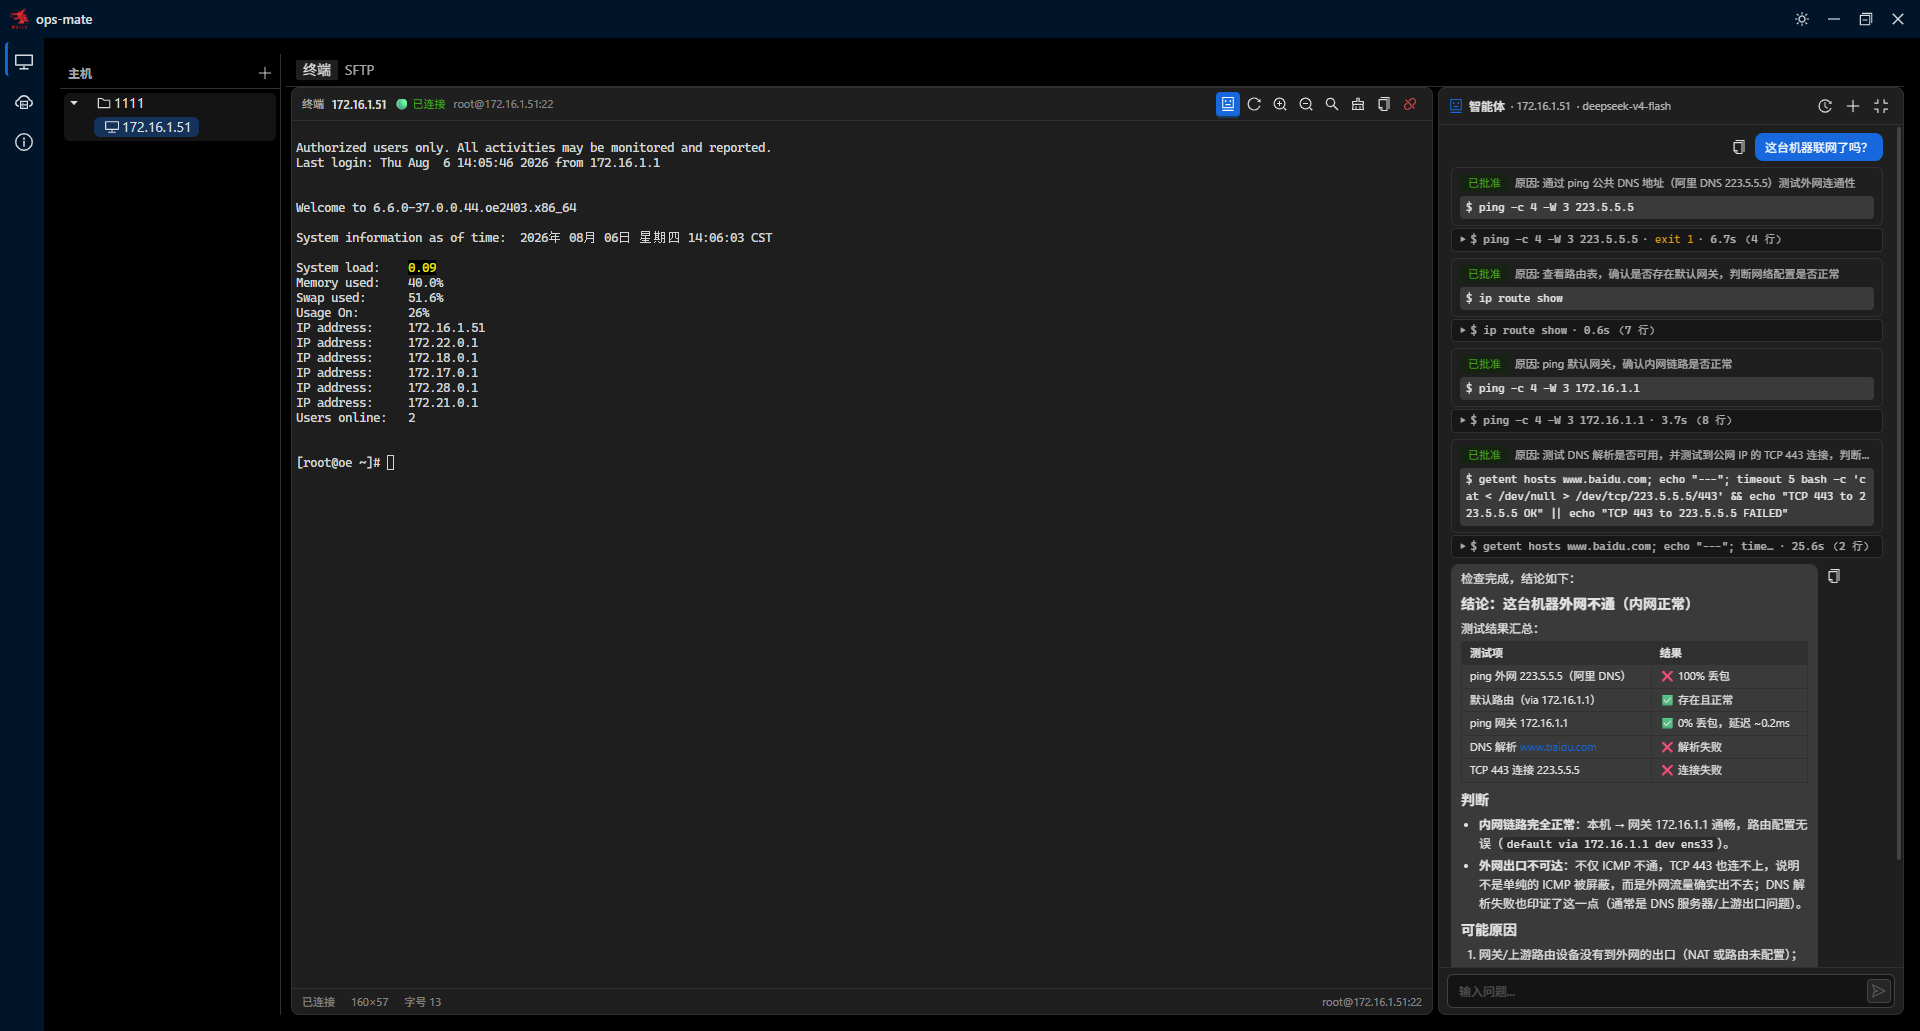
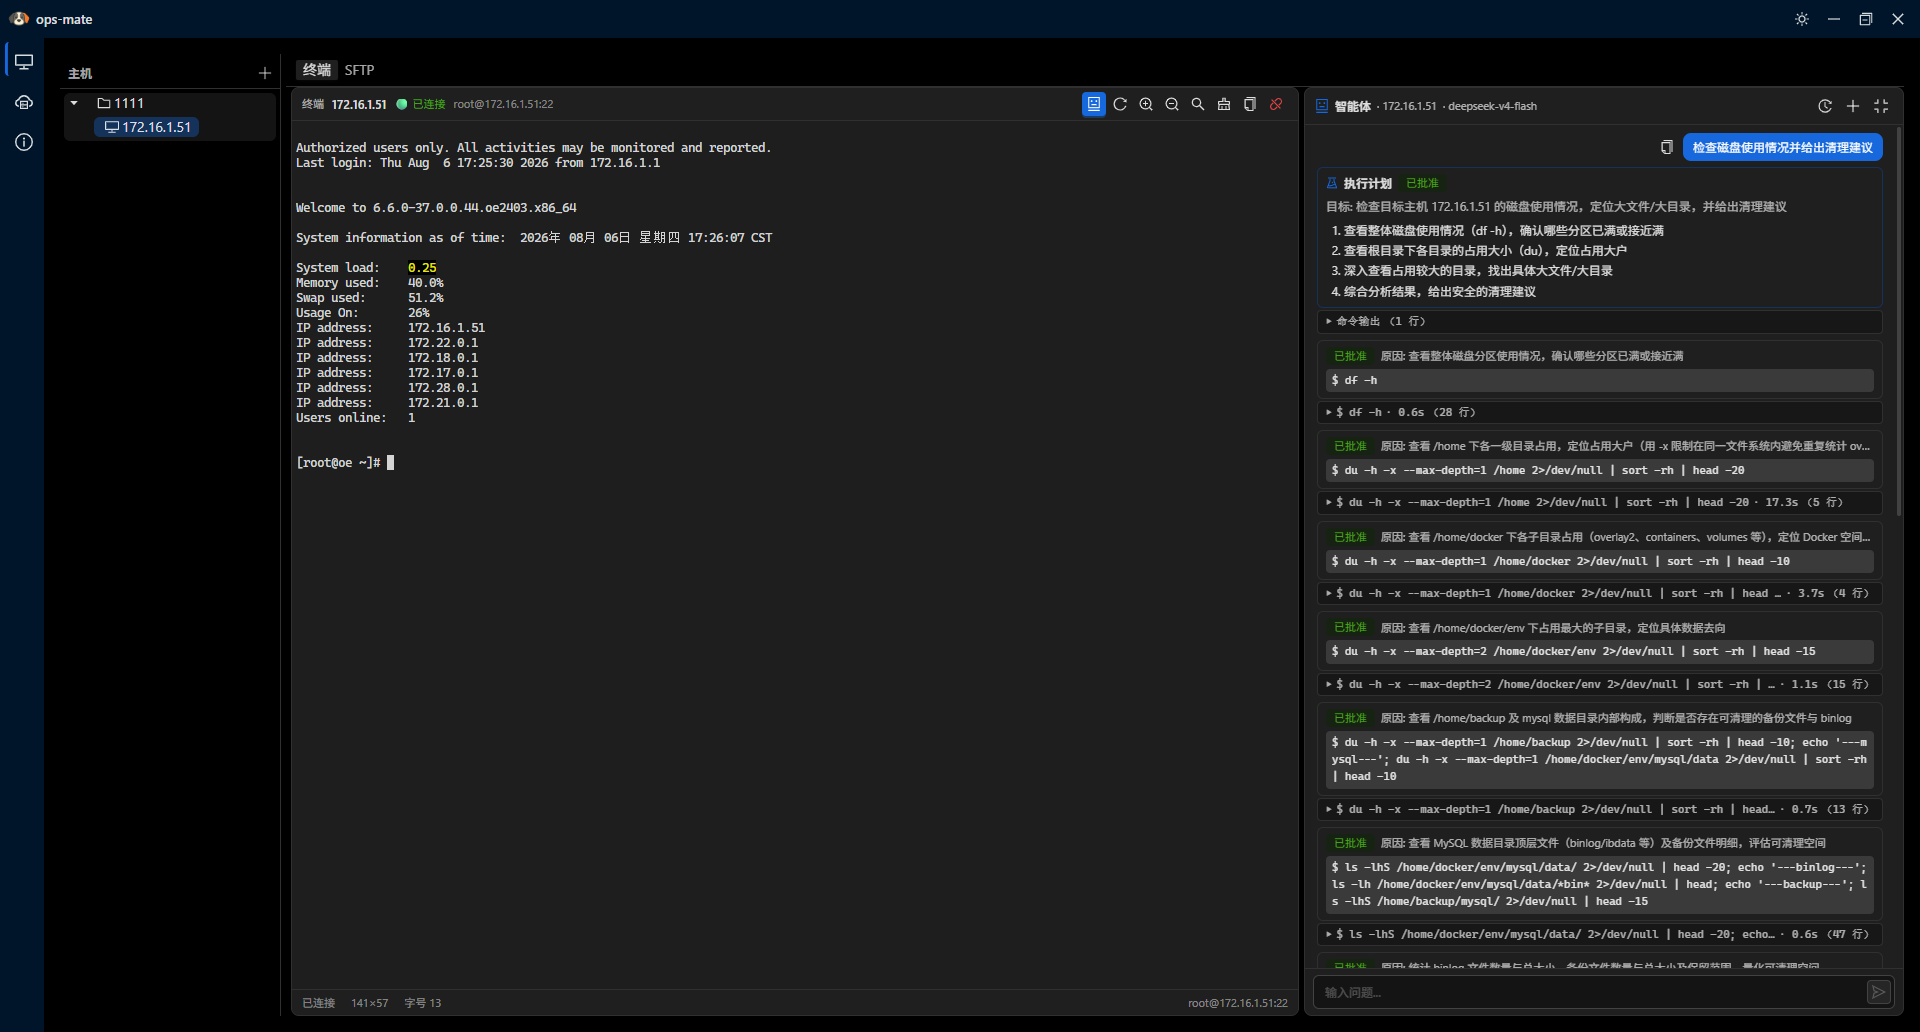
chore: 开源准备（MIT 协议、README、隐私清理）
- 新增 LICENSE（MIT）与 README_ch.md，README 补全功能/架构/截图
- About 页更新为静态功能特性列表
- wails.json 作者信息匿名化并配置 productVersion 1.0.1
- .gitignore 忽略 .claude/，清理 go.mod 注释的本地 replace 路径

diff --git a/frontend/src/pages/About/index.tsx b/frontend/src/pages/About/index.tsx
@@ -1,22 +1,44 @@
-import { Typography, Card, Space } from 'antd';
+import { Typography, Card, Divider, Space } from 'antd';
 import { GithubOutlined } from '@ant-design/icons';
 
 const { Title, Paragraph, Text, Link } = Typography;
+
+/** 功能特性列表 */
+const FEATURES: Array<{ icon: string; title: string; desc: string }> = [
+  { icon: '🖥', title: '主机管理', desc: '文件夹树状组织主机、连接测试、命令执行' },
+  { icon: '💻', title: 'SSH 终端', desc: '交互式终端，动态缩放、搜索、命令历史' },
+  { icon: '📁', title: 'SFTP 传输', desc: '远程文件浏览与上传下载，并发队列 + 进度控制' },
+  { icon: '🤖', title: 'AI 运维智能体', desc: '命令审批 / 计划模式，每一步都经你确认' },
+];
 
 export default function About(): React.JSX.Element {
   return (
     <div style={{ maxWidth: 560, margin: '0 auto' }}>
       <Title level={4}>关于 ops-mate</Title>
       <Card size="small">
-        <Space direction="vertical" size={4}>
+        <Space direction="vertical" size={4} style={{ width: '100%' }}>
           <Paragraph style={{ margin: 0 }}>
-            <Text strong>ops-mate</Text> — 基于 Wails + React 的 AI 运维智能体
+            <Text strong>ops-mate</Text>
           </Paragraph>
           <Paragraph type="secondary" style={{ fontSize: 12, margin: 0 }}>
-            通过 AI 对话远程管理 Linux 主机，支持命令审批、历史记忆、多主机管理。
+            基于 Wails + React 的 AI 运维智能体，通过 AI 对话远程管理 Linux 主机。
           </Paragraph>
+
+          <Divider style={{ margin: '8px 0' }} />
+
+          {FEATURES.map((f) => (
+            <Paragraph key={f.title} style={{ margin: 0, fontSize: 12 }}>
+              <Text strong>
+                {f.icon} {f.title}
+              </Text>
+              <Text type="secondary"> — {f.desc}</Text>
+            </Paragraph>
+          ))}
+
+          <Divider style={{ margin: '8px 0' }} />
+
           <Paragraph type="secondary" style={{ fontSize: 12, margin: 0 }}>
-            技术栈: Go + Eino | React + Ant Design | SQLite + GORM
+            技术栈: Go + Eino | React + Ant Design + xterm.js | SQLite + GORM
           </Paragraph>
           <Link href="https://github.com" target="_blank">
             <GithubOutlined /> GitHub

diff --git a/README.md b/README.md
@@ -1,19 +1,105 @@
-# README
+# ops-mate
 
-## About
+**ops-mate** is a desktop application for SSH server operations and automated ops management, built with [Wails v2](https://wails.io/) (Go backend + React/TypeScript frontend). It combines a classic SSH/SFTP client with an **AI-powered ops agent** that can plan and execute troubleshooting or remediation tasks on your servers — with human approval at every step.
 
-This is the official Wails React-TS template.
+![ops-mate 主界面](images/home.png)
 
-You can configure the project by editing `wails.json`. More information about the project settings can be found
-here: https://wails.io/docs/reference/project-config
+## Features
 
-## Live Development
+### 🖥 Host Management
+- Organize hosts into a folder **tree** (create / rename / move / delete nodes)
+- Manage SSH connection info (host, port, user, auth)
+- **Test connection** before saving; run ad-hoc commands
+- Passwords/secrets are **encrypted at rest**
 
-To run in live development mode, run `wails dev` in the project directory. This will run a Vite development
-server that will provide very fast hot reload of your frontend changes. If you want to develop in a browser
-and have access to your Go methods, there is also a dev server that runs on http://localhost:34115. Connect
-to this in your browser, and you can call your Go code from devtools.
+### 💻 SSH Terminal
+- Full interactive terminal (xterm.js, WebGL/canvas rendering)
+- Dynamic **resize**, search, copy/paste, command history
+- Multiple concurrent host sessions
+
+### 📁 SFTP File Transfer
+- Browse remote directories, create / delete / rename
+- **Upload / download** with a concurrent queue
+- Per-task **progress** with pause / resume / cancel
+
+### 🤖 AI Ops Agent
+- Chat with an LLM agent that has a direct view of your selected host
+- **`execute_command` tool** — the agent proposes concrete shell commands; **every command must be approved by you before it runs**
+- **Plan mode (`create_plan`)** — for complex multi-step tasks the agent first submits an execution plan (goal + step list) for your approval, then executes step by step
+- **Guardrails** — dangerous operations (delete, restart, shutdown, formatting) are flagged and always require explicit approval
+- Conversation history per host, with rename / delete
+
+### ⚙ Model Configuration
+- Bring your own LLM: provider, model, base URL, API key (**encrypted at rest**)
+- Supports OpenAI-compatible protocols (OpenAI / DeepSeek / Qwen(通义) / Zhipu(智谱) / Moonshot / Volcengine, etc.), **Anthropic Claude**, and local **Ollama**
+
+## Tech Stack
+
+| Layer | Technology |
+|-------|-----------|
+| Shell | Wails v2 (Go + WebView2) |
+| Backend | Go, [eino](https://github.com/cloudwego/eino) agent framework, eino-ext model adapters |
+| Storage | SQLite via `modernc.org/sqlite` (pure Go, no CGO) + GORM + golang-migrate |
+| Frontend | React 19, TypeScript, Vite, Ant Design 6, react-router-dom 7, xterm.js |
+
+## Architecture
+
+```
+┌─────────────────────────── Frontend (React) ───────────────────────────┐
+│  HostsPage ──► HostTree / Terminal / SFTP Panel / AIPanel / PlanCard   │
+└───────────────────────────────┬────────────────────────────────────────┘
+                                │  Wails bindings (window.go)
+┌───────────────────────────────▼────────────────────────────────────────┐
+│                         Go Backend (Wails)                              │
+│  handlers: Hosts · Terminal · Sftp · Sessions · AIConfig                │
+│  internal/einoagent: model(provider) · tools · session · guardrail     │
+│  internal/store:     hosts · conversations · config · memory (SQLite)   │
+└─────────────────────────────────────────────────────────────────────────┘
+```
+
+- **Bindings**: exported methods on Go handler structs are auto-bound and callable from the frontend via `@wailsjs/go/**` (auto-generated, never edit).
+- **Routing**: `react-router-dom` with `HashRouter` (required for embedded Wails assets). Single source of truth in `frontend/src/components/AppLayout/menuConfig.tsx`.
+- **Frameless window**: custom title-bar drag region built in the frontend.
+- **AI events**: the agent streams events (`ai:text`, `ai:command`, `ai:plan`, `run:*`) to the frontend over Wails events to drive the approval UI.
+
+## Development
+
+Prerequisites: [Go](https://go.dev/dl/), [Node.js](https://nodejs.org/), [pnpm](https://pnpm.io/), and the [Wails CLI](https://wails.io/docs/gettingstarted/installation).
+
+```bash
+# Live development (hot reload for Go + frontend)
+wails dev
+
+# Frontend-only (standalone Vite, no Go bridge)
+cd frontend && pnpm dev
+```
 
 ## Building
 
-To build a redistributable, production mode package, use `wails build`.
+```bash
+# Production build
+wails build
+
+# Build for a specific platform
+wails build -platform windows/amd64
+wails build -platform darwin/universal
+```
+
+## Project Layout
+
+```
+├── main.go                  # Wails app entry, binding
+├── internal/
+│   ├── handler/             # Wails-bound API handlers (hosts, terminal, sftp, sessions, ai config)
+│   ├── einoagent/           # AI agent (model/provider, tools, session, guardrail, history)
+│   ├── sftp/                # SFTP transfer engine (concurrent queue)
+│   └── store/               # SQLite persistence (hosts, conversations, config, memory)
+├── frontend/
+│   ├── src/                 # React app (pages, components, hooks)
+│   └── wailsjs/             # auto-generated Wails bindings (do not edit)
+└── wails.json               # Wails project config
+```
+
+## License
+
+[MIT](LICENSE) © ops-mate contributors

diff --git a/README_ch.md b/README_ch.md
@@ -1,0 +1,105 @@
+# ops-mate
+
+**ops-mate** 是一款基于 [Wails v2](https://wails.io/)（Go 后端 + React/TypeScript 前端）的 SSH 运维管理桌面应用。它把经典的 SSH/SFTP 客户端与 **AI 运维智能体** 结合，智能体可以规划并执行服务器上的诊断/修复任务——每一步都需要你审批确认。
+
+![ops-mate 主界面](images/home.png)
+
+## 功能特性
+
+### 🖥 主机管理
+- 文件夹**树状**组织主机（新建 / 重命名 / 移动 / 删除节点）
+- 管理 SSH 连接信息（主机、端口、用户、认证方式）
+- 保存前可**测试连接**；支持临时执行命令
+- 密码等敏感信息**加密落盘**
+
+### 💻 SSH 终端
+- 完整交互式终端（xterm.js，WebGL/Canvas 渲染）
+- 动态**调整大小**、搜索、复制粘贴、命令历史
+- 支持多台主机并发会话
+
+### 📁 SFTP 文件传输
+- 浏览远程目录，新建 / 删除 / 重命名
+- **上传 / 下载** 并发队列
+- 每个任务独立**进度**，支持暂停 / 继续 / 取消
+
+### 🤖 AI 运维智能体
+- 与能"看到"当前选中主机的 LLM 智能体对话
+- **`execute_command` 工具**：智能体提出具体 Shell 命令，**每条命令都必须经你批准后才执行**
+- **计划模式（`create_plan`）**：面对复杂多步任务，智能体先提交执行计划（目标 + 步骤列表）供你审批，批准后按计划逐步执行
+- **安全护栏**：危险操作（删除、重启、关机、格式化等）会明确提示风险，且始终要求显式审批
+- 每台主机独立对话历史，支持重命名 / 删除
+
+### ⚙ 模型配置
+- 自带大模型：供应商、模型、Base URL、API Key（**加密落盘**）
+- 支持 OpenAI 兼容协议（OpenAI / DeepSeek / 通义 / 智谱 / Moonshot / 火山引擎等）、**Anthropic Claude**、以及本地 **Ollama**
+
+## 技术栈
+
+| 层 | 技术 |
+|----|------|
+| 外壳 | Wails v2（Go + WebView2） |
+| 后端 | Go、[eino](https://github.com/cloudwego/eino) 智能体框架、eino-ext 模型适配器 |
+| 存储 | `modernc.org/sqlite`（纯 Go，无需 CGO）+ GORM + golang-migrate |
+| 前端 | React 19、TypeScript、Vite、Ant Design 6、react-router-dom 7、xterm.js |
+
+## 架构
+
+```
+┌─────────────────────────── 前端（React）───────────────────────────┐
+│  HostsPage ──► HostTree / Terminal / SFTP 面板 / AIPanel / PlanCard │
+└───────────────────────────────┬────────────────────────────────────┘
+                                │  Wails 绑定（window.go）
+┌───────────────────────────────▼────────────────────────────────────┐
+│                         Go 后端（Wails）                             │
+│  handlers: Hosts · Terminal · Sftp · Sessions · AIConfig             │
+│  internal/einoagent: model(provider) · tools · session · guardrail  │
+│  internal/store:     hosts · conversations · config · memory(SQLite)│
+└─────────────────────────────────────────────────────────────────────┘
+```
+
+- **绑定机制**：Go handler 结构体上的导出方法自动绑定，前端通过 `@wailsjs/go/**` 调用（自动生成，勿手改）。
+- **路由**：`react-router-dom` 使用 `HashRouter`（嵌入式 Wails 资源要求）。单一数据源位于 `frontend/src/components/AppLayout/menuConfig.tsx`。
+- **无边框窗口**：前端实现自定义标题栏拖拽区域。
+- **AI 事件**：智能体通过 Wails 事件向前端推送流式事件（`ai:text`、`ai:command`、`ai:plan`、`run:*`），驱动审批界面。
+
+## 开发
+
+前置依赖：[Go](https://go.dev/dl/)、[Node.js](https://nodejs.org/)、[pnpm](https://pnpm.io/)、[Wails CLI](https://wails.io/docs/gettingstarted/installation)。
+
+```bash
+# 实时开发（Go 与前端热重载）
+wails dev
+
+# 仅前端（独立 Vite，无 Go 桥接）
+cd frontend && pnpm dev
+```
+
+## 构建
+
+```bash
+# 生产构建
+wails build
+
+# 指定平台
+wails build -platform windows/amd64
+wails build -platform darwin/universal
+```
+
+## 目录结构
+
+```
+├── main.go                  # Wails 应用入口、绑定
+├── internal/
+│   ├── handler/             # Wails 绑定的 API handler（主机、终端、SFTP、会话、AI 配置）
+│   ├── einoagent/           # AI 智能体（model/provider、tools、session、guardrail、history）
+│   ├── sftp/                # SFTP 传输引擎（并发队列）
+│   └── store/               # SQLite 持久化（主机、会话、配置、记忆）
+├── frontend/
+│   ├── src/                 # React 应用（页面、组件、hooks）
+│   └── wailsjs/             # 自动生成的 Wails 绑定（勿手改）
+└── wails.json               # Wails 项目配置
+```
+
+## 开源协议
+
+[MIT](LICENSE) © ops-mate contributors
